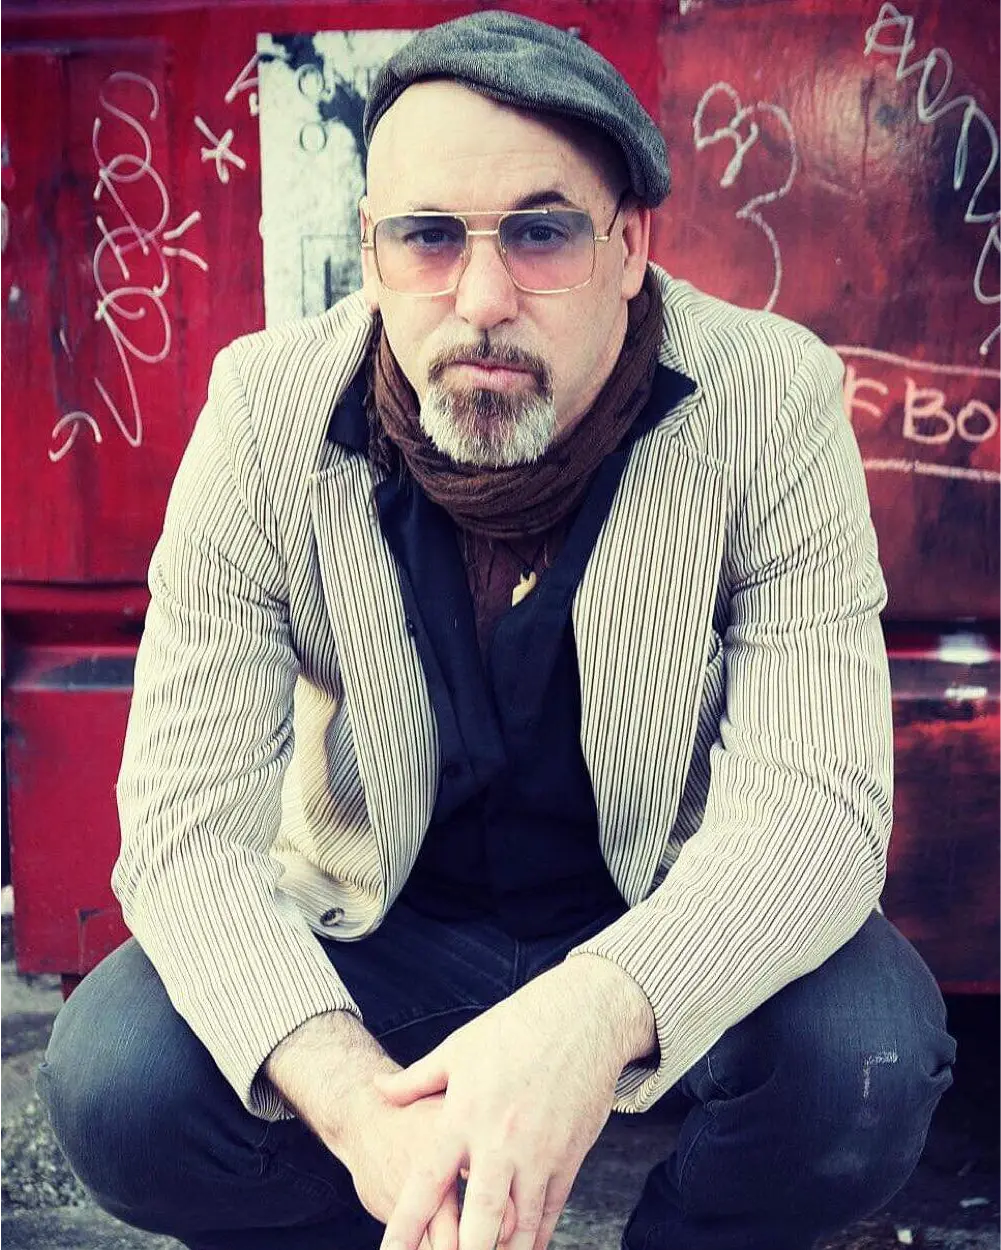
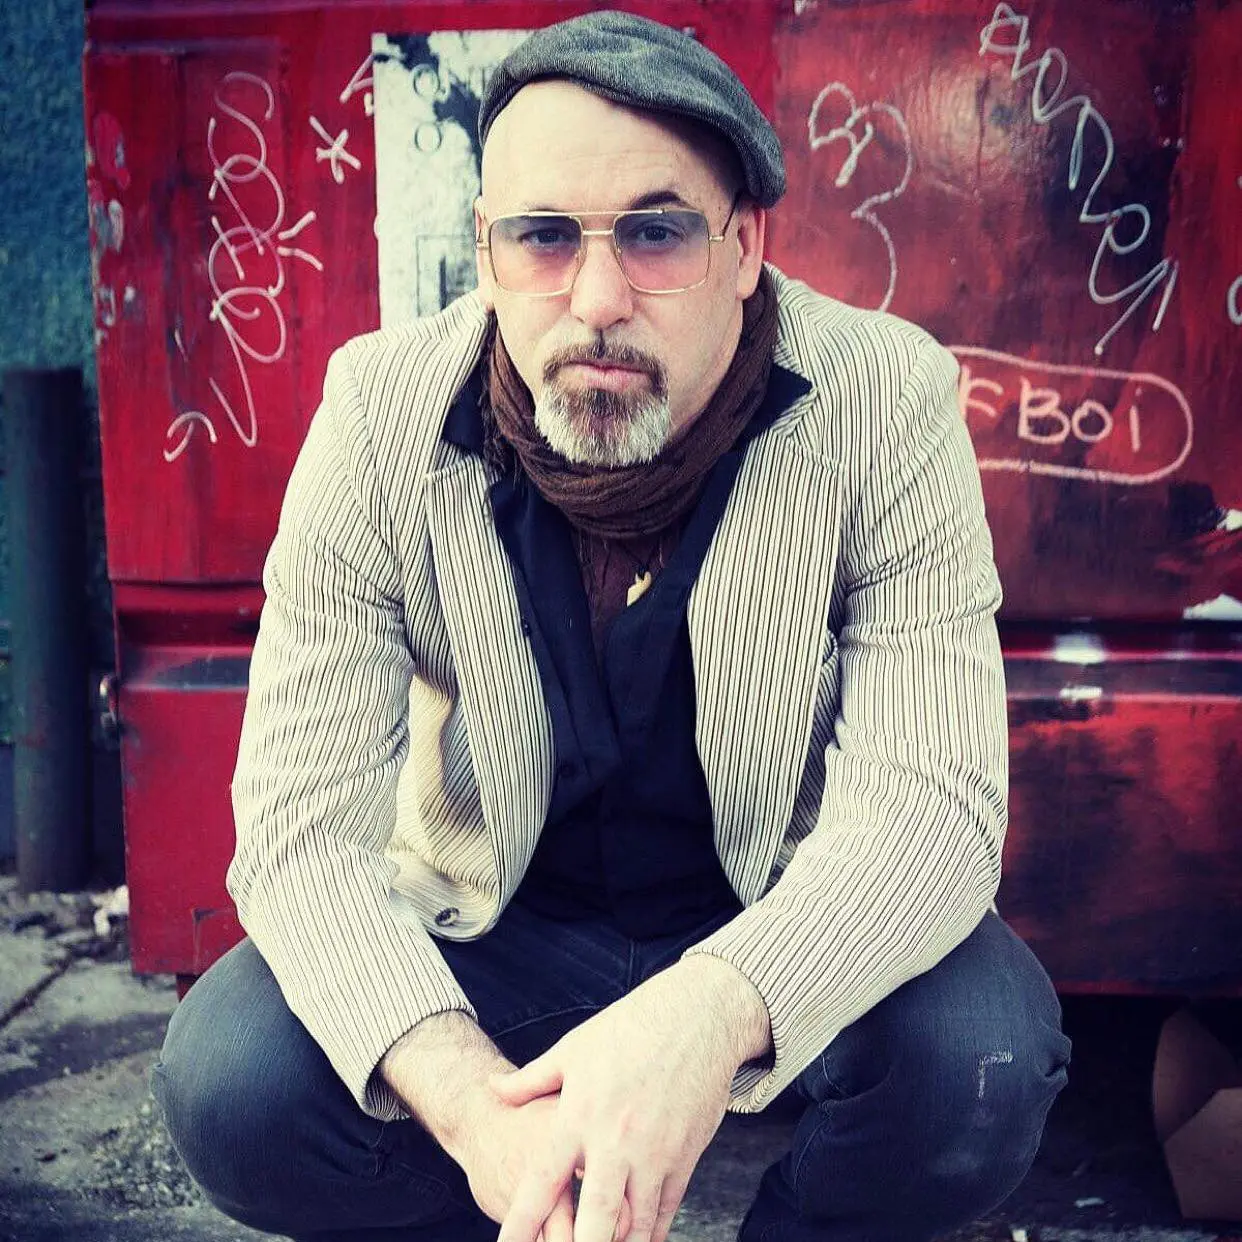
Add cr avery tour poster links and updated image

diff --git a/index.html b/index.html
@@ -65,15 +65,12 @@
       <!-- HERO / HOME -->
       <section id="home" class="section--hero featured">
         <div class="feature-poster-wrapper">
-          <a class="feature-poster" target="_blank" href="https://russiancircles.com/shows"
-            ><img src="/img/tours/2013-01-11-chronoposter.webp" alt="chronophonium"
+          <a class="feature-poster" target="_blank" href="https://www.facebook.com/C.R.AveryLiveNZ/"
+            ><img src="/img/tours/cr-avery-tour.webp" alt="chronophonium"
           /></a>
         </div>
         <div class="feature-buttons">
-          <a
-            href="https://www.facebook.com/profile.php?id=1275437203"
-            class="button"
-            target="_blank"
+          <a href="https://www.facebook.com/C.R.AveryLiveNZ/" class="button" target="_blank"
             >Buy tickets</a
           >
           <a href="http://www.cravery.com/" target="_blank" class="button">Discover C.R. Avery</a>
@@ -225,9 +222,9 @@
         <p class="p-m section--subheading">07:17 Records presents...</p>
         <div class="tour-wrapper">
           <div class="tour-block">
-            <a class="tour-poster" target="_blank" href="https://russiancircles.com/shows"
+            <a class="tour-poster" target="_blank" href="https://www.facebook.com/C.R.AveryLiveNZ/"
               ><img
-                src="/img/tours/2013-01-11-chronoposter.webp"
+                src="/img/tours/cr-avery-tour.webp"
                 alt="C.R. Avery Aotearoa NZ Tour August 2023"
             /></a>
           </div>
